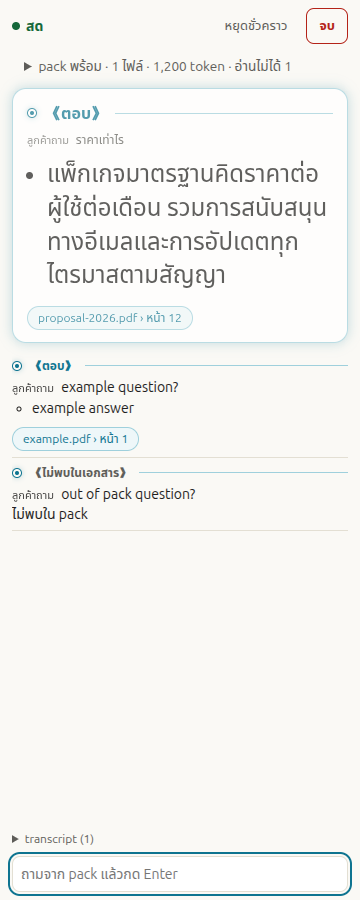
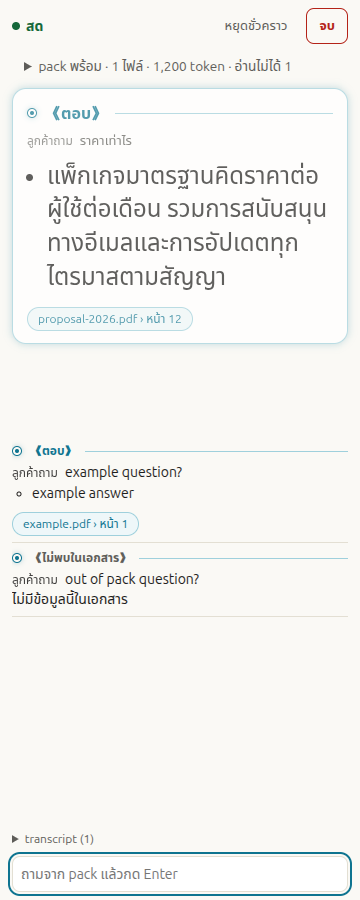
FE-50: fixed cue slot (scroll inside), strip anchors by sources, copy/size nits

Changed region(s): [[0.0306, 0.1556, 0.9472, 0.6844], [0.1222, 0.1556, 0.1528, 0.1867], [0.0611, 0.1867, 0.0917, 0.2178]]

diff --git a/apps/extension/src/strip-anchor.test.ts b/apps/extension/src/strip-anchor.test.ts
@@ -1,8 +1,24 @@
 import { expect, test } from 'vitest';
 import { stripInlineAnchor } from './strip-anchor';
 
-test('strips inline [file › page] anchors, keeps other brackets', () => {
-  expect(stripInlineAnchor('ราคา 100 [deck.pdf › หน้า 3]')).toBe('ราคา 100');
-  expect(stripInlineAnchor('a [x › y] b [z › 1]')).toBe('a b');
-  expect(stripInlineAnchor('ใช้ [SLA] ได้')).toBe('ใช้ [SLA] ได้');
+const src = (file: string, locator: string) => [{ file, locator }];
+
+test('strips the inline anchor given by sources', () => {
+  expect(stripInlineAnchor('ราคา 100 [deck.pdf › หน้า 3]', src('deck.pdf', 'หน้า 3'))).toBe(
+    'ราคา 100',
+  );
+  expect(stripInlineAnchor('a [x › y] b [z › 1]', [...src('x', 'y'), ...src('z', '1')])).toBe(
+    'a b',
+  );
+});
+
+test('file names with brackets and Thai page labels', () => {
+  expect(stripInlineAnchor('ตอบ [report[1].pdf › สไลด์ 7]', src('report[1].pdf', 'สไลด์ 7'))).toBe(
+    'ตอบ',
+  );
+});
+
+test('leaves unrelated brackets and unknown anchors alone', () => {
+  expect(stripInlineAnchor('ใช้ [SLA] ได้', src('a.pdf', '1'))).toBe('ใช้ [SLA] ได้');
+  expect(stripInlineAnchor('x [other.pdf › 2]', src('a.pdf', '1'))).toBe('x [other.pdf › 2]');
 });

diff --git a/apps/extension/entrypoints/sidepanel/style.css b/apps/extension/entrypoints/sidepanel/style.css
@@ -159,7 +159,7 @@ html {
 .latest .question {
   flex: none;
   margin: 0 0 8px;
-  font-size: 12px;
+  font-size: 13px;
   color: var(--muted);
   white-space: nowrap;
   overflow: hidden;
@@ -314,10 +314,12 @@ input[type="checkbox"] {
 .latestwrap {
   display: block;
   flex: none;
-  min-height: 230px; /* ~1 typical cue; the card top never moves, history may shift below */
+  height: 340px; /* fixed: history below never moves while a cue streams; longer cues scroll inside */
 }
 .latest {
-  box-shadow: 0 0 10px 0 var(--glow);
+  max-height: 100%;
+  overflow-y: auto;
+  box-shadow: 0 0 8px 0 var(--glow);
 }
 .announce-head {
   display: flex;
@@ -358,7 +360,7 @@ input[type="checkbox"] {
 }
 .qlabel {
   margin-right: 4px;
-  font-size: 11px;
+  font-size: 12px;
   opacity: 0.85;
 }
 .prev .question {
@@ -369,10 +371,10 @@ input[type="checkbox"] {
 }
 @keyframes arrive {
   0% {
-    box-shadow: 0 0 22px 4px var(--glow);
+    box-shadow: 0 0 16px 2px var(--glow);
   }
   100% {
-    box-shadow: 0 0 10px 0 var(--glow);
+    box-shadow: 0 0 8px 0 var(--glow);
   }
 }
 /* live header */

diff --git a/apps/extension/src/strip-anchor.ts b/apps/extension/src/strip-anchor.ts
@@ -1,3 +1,15 @@
-/** View-only: the server may inline `[file › page]` in a bullet; anchors render once as chips (D10 data untouched). */
-export const stripInlineAnchor = (b: string): string =>
-  b.replace(/\s*\[[^[\]]*›[^[\]]*\]/g, '').trim();
+/** View-only: the server may inline `[file › page]` in a bullet; anchors render once as chips (D10 data untouched).
+ * Strips only the exact strings from `sources` (plain split/join, so brackets in file names are safe). */
+export const stripInlineAnchor = (
+  b: string,
+  sources: { file: string; locator: string }[],
+): string => {
+  let out = b;
+  for (const x of sources)
+    out = out
+      .split(` [${x.file} › ${x.locator}]`)
+      .join('')
+      .split(`[${x.file} › ${x.locator}]`)
+      .join('');
+  return out.trim();
+};

diff --git a/apps/extension/entrypoints/sidepanel/LiveView.tsx b/apps/extension/entrypoints/sidepanel/LiveView.tsx
@@ -29,11 +29,11 @@ function CueBody({ cue, big }: { cue: Cue; big: boolean }) {
       </p>
       <div className="cuebody">
         {cue.notFound ? (
-          <p className="notfound">ไม่พบใน pack</p>
+          <p className="notfound">ไม่มีข้อมูลนี้ในเอกสาร</p>
         ) : (
           <ul className={big ? 'bullets big' : 'bullets'}>
             {cue.bullets.map((b) => (
-              <li key={b}>{stripInlineAnchor(b)}</li>
+              <li key={b}>{stripInlineAnchor(b, cue.sources)}</li>
             ))}
           </ul>
         )}
